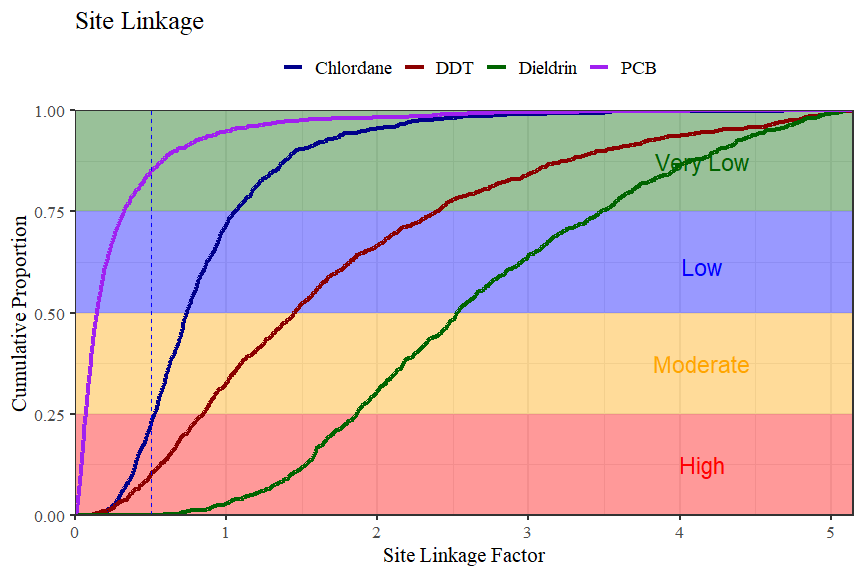
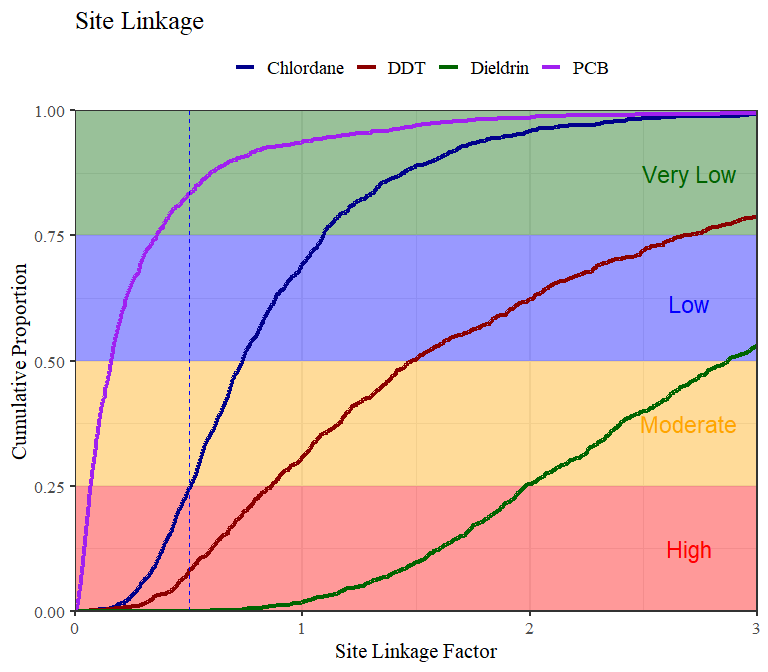
readme reknit

diff --git a/README.md b/README.md
@@ -101,7 +101,8 @@ tab_bsaf(bsaf, cbiota, 'alphaChlordane')
     ## 2  1.814  4.747  7.266
 
 Run Monte Carlo simulations (MCS) with results from bioaccumulation
-model and additional inputs:
+model and additional
+inputs:
 
 ``` r
 mcsres <- mcs_fun(1000, indic_sum, mcsparms, constants, propseaf = c(0, 0.5, 0, 0, 0.5, 0, 0, 0, 0))
@@ -114,23 +115,26 @@ mcs_sum_fun(mcsres)
 ```
 
     ## # A tibble: 4 x 12
-    ##   Compound    `0%`   `1%`   `5%`  `10%`  `25%` `50%` `75%` `90%` `95%`
-    ##   <chr>      <dbl>  <dbl>  <dbl>  <dbl>  <dbl> <dbl> <dbl> <dbl> <dbl>
-    ## 1 Chlorda~ 0.138   0.210  0.296  0.376  0.523  0.738 1.06  1.46   1.93
-    ## 2 DDT      0.0805  0.209  0.375  0.523  0.884  1.57  2.78  4.80   5.99
-    ## 3 Dieldrin 0.567   0.783  1.21   1.49   1.94   2.71  3.93  5.35   6.37
-    ## 4 PCB      0.00212 0.0105 0.0231 0.0364 0.0703 0.144 0.324 0.676  1.06
+    ## # Groups:   Compound [4]
+    ##   Compound    `0%`    `1%`   `5%`  `10%`  `25%` `50%` `75%` `90%` `95%`
+    ##   <chr>      <dbl>   <dbl>  <dbl>  <dbl>  <dbl> <dbl> <dbl> <dbl> <dbl>
+    ## 1 Chlorda~ 0.0946  0.183   0.285  0.361  0.509  0.736 1.09  1.58   1.92
+    ## 2 DDT      0.0633  0.282   0.446  0.541  0.863  1.48  2.68  4.93   6.62
+    ## 3 Dieldrin 0.593   0.885   1.27   1.52   1.98   2.87  4.04  5.70   6.96
+    ## 4 PCB      0.00472 0.00905 0.0229 0.0353 0.0680 0.159 0.357 0.691  1.17
     ## # ... with 2 more variables: `99%` <dbl>, `100%` <dbl>
 
-Plot cumulative distribution curves for MCS:
+Plot cumulative distribution curves for
+MCS:
 
 ``` r
-mcs_plo(mcsres)
+mcs_plo(mcsres, xmax = 3)
 ```
 
-![](README_files/figure-gfm/unnamed-chunk-9-1.png)<!-- -->
+<img src="README_files/figure-gfm/unnamed-chunk-9-1.png" width="80%" style="display: block; margin: auto;" />
 
-Get overall SQO assessment:
+Get overall SQO
+assessment:
 
 ``` r
 wgtavg <- wgt_avg_fun(mcsparms, propseaf = c(0, 0.5, 0, 0, 0.5, 0, 0, 0, 0))
@@ -140,10 +144,10 @@ sqo_sum_fun(wgtavg, mcsres, tischmthr, constants, finalsiteassess)
     ## # A tibble: 4 x 12
     ##   Compound `Weighted obser~  `25%` `50%` `75%` `Weighted estim~
     ##   <chr>               <dbl>  <dbl> <dbl> <dbl>            <dbl>
-    ## 1 Chlorda~             2.28 0.523  0.738 1.06             1.69 
-    ## 2 DDT                  4.85 0.884  1.57  2.78             7.59 
-    ## 3 Dieldrin             0.25 1.94   2.71  3.93             0.678
-    ## 4 PCB                 36.5  0.0703 0.144 0.324            5.24 
+    ## 1 Chlorda~             2.28 0.509  0.736 1.09             1.68 
+    ## 2 DDT                  4.85 0.863  1.48  2.68             7.17 
+    ## 3 Dieldrin             0.25 1.98   2.87  4.04             0.718
+    ## 4 PCB                 36.5  0.0680 0.159 0.357            5.80 
     ## # ... with 6 more variables: `Chemical exposure score` <dbl>, `Chemical
     ## #   exposure category` <chr>, `Site linkage score` <dbl>, `Site linkage
     ## #   category` <chr>, `Site assessment score` <dbl>, `Site assessment
